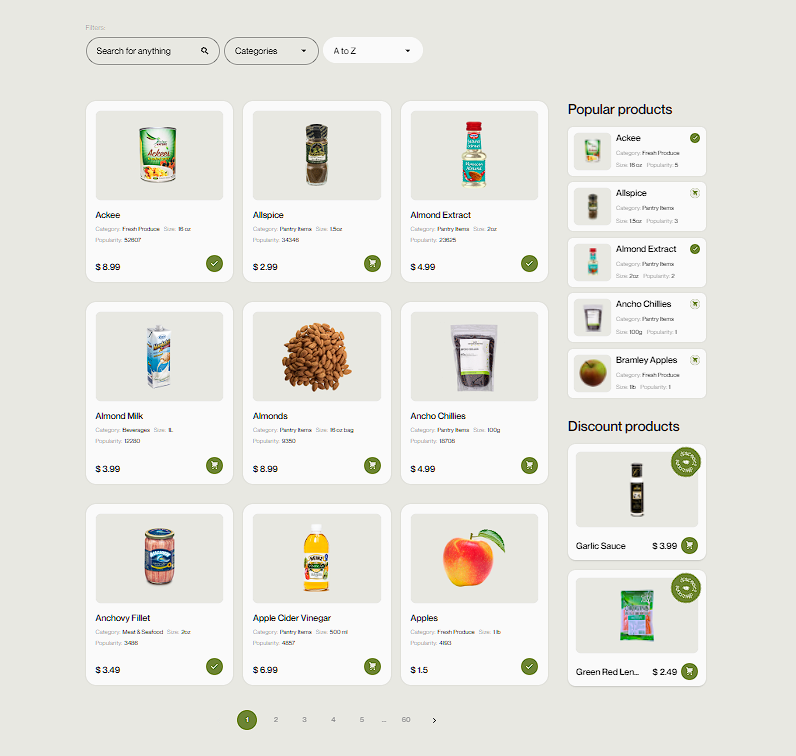
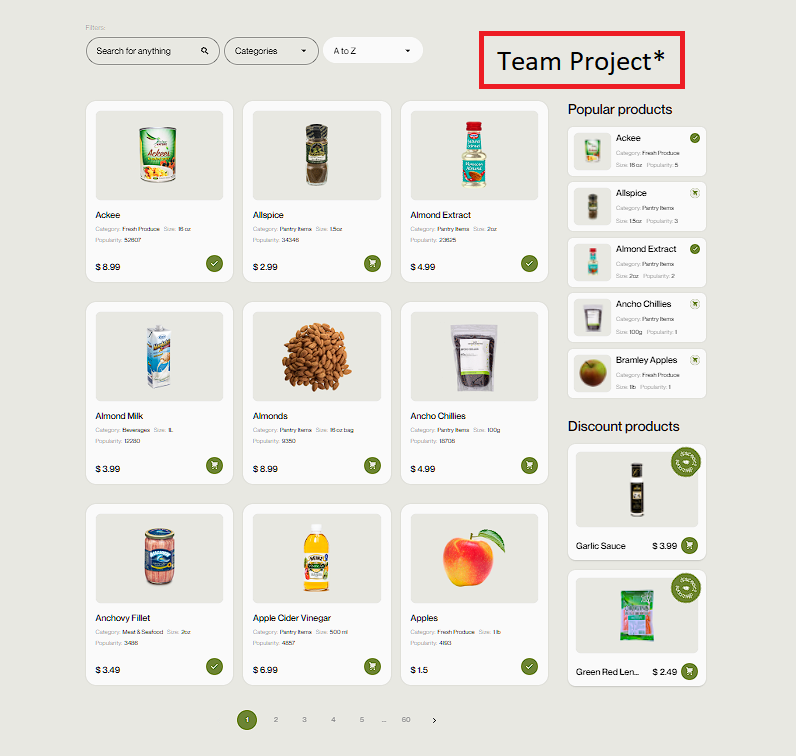
update styles

Changed region(s): [[0.603, 0.0304, 0.8744, 0.1217]]

diff --git a/src/pages/index.tsx b/src/pages/index.tsx
@@ -1,27 +1,97 @@
+import { useEffect, useState } from "react";
 import { NextPage } from "next";
+import Image from "next/image";
 
 const About: NextPage = () => {
+  const [theme, setTheme] = useState<string>("light");
+
+  useEffect(() => {
+    // Функция для определения текущей темы
+    const currentTheme = document.documentElement.classList.contains("dark")
+      ? "dark"
+      : "light";
+    setTheme(currentTheme);
+
+    // Функция для отслеживания изменений темы
+    const observer = new MutationObserver(() => {
+      const newTheme = document.documentElement.classList.contains("dark")
+        ? "dark"
+        : "light";
+      setTheme(newTheme);
+    });
+
+    observer.observe(document.documentElement, {
+      attributes: true,
+      attributeFilter: ["class"],
+    });
+
+    return () => observer.disconnect();
+  }, []);
+
   return (
     <div
-      className="flex flex-col flex-grow px-6 pt-1"
+      className="flex flex-col flex-grow px-6 pt-1 relative"
       style={{ height: "65vh" }}
     >
       <h6 className="my-3 text-base font-medium">
-        Lorem, ipsum dolor sit amet consectetur adipisicing elit. Enim, facilis,
-        error voluptatem dignissimos laboriosam soluta fugiat ad molestias,
-        eligendi veritatis natus labore nulla. Reprehenderit, doloribus ipsa!
-        Sapiente quam quis, dolorem odio necessitatibus alias voluptatum
-        blanditiis dolores obcaecati, veritatis fugiat, debitis repudiandae
-        veniam modi aliquam sequi illo. Aperiam reprehenderit suscipit
-        doloribus!
+        <strong>Hi, I&apos;m Sergio</strong>. I develop web applications as a
+        full-stack developer. I started doing this recently, but have already
+        gained considerable experience. The main front-end development stack
+        includes <strong>React</strong> and <strong>Redux</strong>, which allows
+        me to create dynamic and responsive user interfaces. On the backend, I
+        use <strong>Node.js</strong> and <strong>Express</strong> to ensure the
+        application backend runs reliably and efficiently. My work covers the
+        full development cycle, from design to deployment of ready-made
+        solutions.
       </h6>
       <div
-        className="flex-grow p-4 mt-5 bg-gray-400 dark:bg-dark-100 "
+        className="flex-grow p-4 mt-5 bg-gray-400 dark:bg-dark-100 relative"
         style={{ marginLeft: "-1.5rem", marginRight: "-1.5rem" }}
       >
-        <h4 className="my-3 text-xl font-semibold tracking-wide">
-          Lorem ipsum dolor sit amet.
-        </h4>
+        <ul className="grid grid-cols-2 gap-4 my-3 text-xl font-semibold tracking-wide">
+          <li>
+            <strong>I CAN</strong>
+            <br />
+            Currently, I am actively developing my skills in working with React
+            and the server-side JavaScript environment, using Node.js and its
+            Express framework.
+          </li>
+          <li>
+            <strong>I STUDY</strong>
+            <br />I am diving into the study of cutting-edge frameworks such as
+            Next.js and Nest.js, aiming to expand my professional toolkit and
+            enhance the quality of my developments.
+          </li>
+          <li>
+            <strong>I'M LOOKING FOR</strong>
+            <br />
+            Moreover, I am open to new opportunities and actively seeking my
+            team. I am ready to participate in interesting and promising
+            projects where I can make a contribution and advance in my
+            professional growth.
+          </li>
+          <li>
+            there is also introductory experience in working with React Native{" "}
+            Tailwind CSS PostgreSQL MongoDB MariaDB
+          </li>
+        </ul>
+        <div className="absolute bottom-4 right-4">
+          {theme === "dark" ? (
+            <Image
+              src="/images/react.svg"
+              alt="React SVG"
+              width={100}
+              height={100}
+            />
+          ) : (
+            <Image
+              src="/images/node.svg"
+              alt="Node SVG"
+              width={100}
+              height={100}
+            />
+          )}
+        </div>
       </div>
     </div>
   );

diff --git a/src/data/data.ts b/src/data/data.ts
@@ -6,7 +6,7 @@ export const projects: Project[] = [
     image_path: "/images/foodboutique.png",
     deployed_url: "https://karatsergio.github.io/project-caramel/",
     github_url: "https://github.com/KaratSergio/project-caramel",
-    category: ["JavaScript"],
+    category: ["JavaScript", "TeamProject"],
     description: "The project is a website for purchasing food.",
     key_techs: ["Java Script", "HTML", "CSS", "API"],
   },
@@ -25,7 +25,7 @@ export const projects: Project[] = [
     image_path: "/images/todoshka.png",
     deployed_url: "https://todoshka-back-5xf7.onrender.com/",
     github_url: "https://github.com/KaratSergio/ToDoshka_back",
-    category: ["Node"],
+    category: ["Node", "TeamProject"],
     description: "The project is a backend for an application like Trello...",
     key_techs: ["Node", "Express", "Mongo", "REST API"],
   },

diff --git a/src/components/NavItem.tsx b/src/components/NavItem.tsx
@@ -1,8 +1,9 @@
 import { NavItemProps } from "../../types";
 
 const NavItem = ({ value, handlerFilterCategory, active }: NavItemProps) => {
-  let className = "capitalize cursor-pointer hover:text-green";
-  if (active === value) className += "text-green";
+  const className = `capitalize font-bold tracking-wider cursor-pointer  px-2 py-1 rounded-lg hover:bg-yellow ${
+    active === value ? "bg-yellow" : ""
+  }`;
 
   return (
     <li className={className} onClick={() => handlerFilterCategory(value)}>

diff --git a/src/components/Navbar.tsx b/src/components/Navbar.tsx
@@ -13,7 +13,7 @@ const NavItem = ({ active, setActive, name, route }: NavItemProps) => {
   return active !== name ? (
     <Link
       href={route}
-      className="mx-2 cursor-pointer hover:border-b-4 hover:text-green"
+      className="mx-2 cursor-pointer hover:border-b-4 hover:text-yellow"
       onClick={() => setActive(name)}
     >
       {name}

diff --git a/src/components/ProjectsNavbar.tsx b/src/components/ProjectsNavbar.tsx
@@ -32,6 +32,11 @@ const ProjectsNavbar = ({
         handlerFilterCategory={handlerFilterCategory}
         active={active}
       />
+      <NavItem
+        value="TeamProject"
+        handlerFilterCategory={handlerFilterCategory}
+        active={active}
+      />
     </div>
   );
 };

diff --git a/types.ts b/types.ts
@@ -1,4 +1,4 @@
-export type Category = "React" | "Node" | "JavaScript" | "Nest" | "All";
+export type Category = "React" | "Node" | "JavaScript" | "Nest" | "TeamProject" | "All";
 
 export interface Project {
   name: string;
